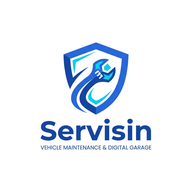
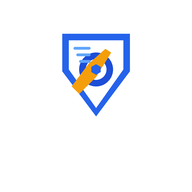
rebrand: complete rebranding to FixGarasi and configure Neon PostgreSQL integration

Changed region(s): [[0.1875, 0.1562, 0.8125, 0.7812]]

diff --git a/client/src/components/profile/LegalModal.tsx b/client/src/components/profile/LegalModal.tsx
@@ -37,7 +37,7 @@ export const LegalModal: React.FC<LegalModalProps> = ({
             </div>
             <div>
               <h3 className="text-sm font-extrabold text-slate-900">Informasi Legal & Layanan</h3>
-              <p className="text-[11px] text-slate-500">Servisin - Manajemen Kendaraan SaaS</p>
+              <p className="text-[11px] text-slate-500">FixGarasi - Manajemen Kendaraan SaaS</p>
             </div>
           </div>
           <button
@@ -72,9 +72,9 @@ export const LegalModal: React.FC<LegalModalProps> = ({
         <div className="p-5 overflow-y-auto space-y-4 text-xs text-slate-600 leading-relaxed">
           {activeTab === 'terms' && (
             <div className="space-y-3">
-              <h4 className="font-bold text-slate-900 text-sm">1. Ketentuan Penggunaan Layanan Servisin</h4>
+              <h4 className="font-bold text-slate-900 text-sm">1. Ketentuan Penggunaan Layanan FixGarasi</h4>
               <p>
-                Selamat datang di Servisin. Dengan mengakses dan menggunakan platform SaaS Servisin (aplikasi web maupun mobile), Anda menyetujui untuk terikat oleh syarat dan ketentuan berikut.
+                Selamat datang di FixGarasi. Dengan mengakses dan menggunakan platform SaaS FixGarasi (aplikasi web maupun mobile), Anda menyetujui untuk terikat oleh syarat dan ketentuan berikut.
               </p>
               <h5 className="font-bold text-slate-800">Akun & Keamanan</h5>
               <p>
@@ -82,7 +82,7 @@ export const LegalModal: React.FC<LegalModalProps> = ({
               </p>
               <h5 className="font-bold text-slate-800">Paket Layanan SaaS</h5>
               <p>
-                Servisin menyediakan tier <strong>Free</strong> (hingga 2 unit kendaraan) dan <strong>Pro</strong> (kendaraan tak terbatas, analitik mendalam, dan kapasitas penyimpanan bukti servis tak terbatas).
+                FixGarasi menyediakan tier <strong>Free</strong> (hingga 2 unit kendaraan) dan <strong>Pro</strong> (kendaraan tak terbatas, analitik mendalam, dan kapasitas penyimpanan bukti servis tak terbatas).
               </p>
               <h5 className="font-bold text-slate-800">Kepemilikan Data</h5>
               <p>
@@ -95,7 +95,7 @@ export const LegalModal: React.FC<LegalModalProps> = ({
             <div className="space-y-3">
               <h4 className="font-bold text-slate-900 text-sm">2. Kebijakan Privasi (Privacy Policy)</h4>
               <p>
-                Servisin menghormati privasi setiap pengguna. Dokumen ini menjelaskan bagaimana kami mengumpulkan, menggunakan, dan melindungi informasi pribadi Anda.
+                FixGarasi menghormati privasi setiap pengguna. Dokumen ini menjelaskan bagaimana kami mengumpulkan, menggunakan, dan melindungi informasi pribadi Anda.
               </p>
               <h5 className="font-bold text-slate-800">Data yang Kami Kumpulkan</h5>
               <ul className="list-disc pl-4 space-y-1">
@@ -114,7 +114,7 @@ export const LegalModal: React.FC<LegalModalProps> = ({
             <div className="space-y-3">
               <h4 className="font-bold text-slate-900 text-sm">3. Kebijakan Pembayaran & Pengembalian Dana (Refund)</h4>
               <p>
-                Pembayaran paket Servisin PRO diproses melalui mitra gerbang pembayaran resmi berlisensi Bank Indonesia (termasuk QRIS, Virtual Account Multi-Bank, dan E-Wallet).
+                Pembayaran paket FixGarasi PRO diproses melalui mitra gerbang pembayaran resmi berlisensi Bank Indonesia (termasuk QRIS, Virtual Account Multi-Bank, dan E-Wallet).
               </p>
               <h5 className="font-bold text-slate-800">Tarif Langganan</h5>
               <ul className="list-disc pl-4 space-y-1">
@@ -132,10 +132,10 @@ export const LegalModal: React.FC<LegalModalProps> = ({
             <div className="space-y-3">
               <h4 className="font-bold text-slate-900 text-sm">4. Kontak & Layanan Pelanggan</h4>
               <p>
-                Tim bantuan Servisin siap membantu Anda jika mengalami kendala transaksi atau pertanyaan operasional:
+                Tim bantuan FixGarasi siap membantu Anda jika mengalami kendala transaksi atau pertanyaan operasional:
               </p>
               <div className="p-3.5 bg-slate-50 rounded-2xl border border-slate-100 space-y-2 text-xs">
-                <p><strong>Email Bantuan:</strong> support@servisin.id</p>
+                <p><strong>Email Bantuan:</strong> support@fixgarasi.id</p>
                 <p><strong>WhatsApp Resmi:</strong> +62 812-3456-7890</p>
                 <p><strong>Jam Operasional:</strong> Senin – Minggu (08:00 – 21:00 WIB)</p>
                 <p><strong>Lokasi:</strong> Jakarta, Indonesia</p>

diff --git a/client/src/context/AuthContext.tsx b/client/src/context/AuthContext.tsx
@@ -17,12 +17,15 @@ const AuthContext = createContext<AuthContextType | undefined>(undefined);
 
 export const AuthProvider: React.FC<{ children: React.ReactNode }> = ({ children }) => {
   const [user, setUser] = useState<User | null>(null);
-  const [token, setToken] = useState<string | null>(localStorage.getItem('servisin_token'));
+  const [token, setToken] = useState<string | null>(
+    localStorage.getItem('fixgarasi_token') || localStorage.getItem('servisin_token')
+  );
   const [isLoading, setIsLoading] = useState<boolean>(true);
 
   const refreshUser = async () => {
     try {
-      if (!localStorage.getItem('servisin_token')) {
+      const activeToken = localStorage.getItem('fixgarasi_token') || localStorage.getItem('servisin_token');
+      if (!activeToken) {
         setUser(null);
         return;
       }
@@ -33,6 +36,7 @@ export const AuthProvider: React.FC<{ children: React.ReactNode }> = ({ children
     } catch (error) {
       console.error('Failed to fetch user data', error);
       setUser(null);
+      localStorage.removeItem('fixgarasi_token');
       localStorage.removeItem('servisin_token');
     } finally {
       setIsLoading(false);
@@ -52,7 +56,7 @@ export const AuthProvider: React.FC<{ children: React.ReactNode }> = ({ children
       const res = await api.post('/auth/login', credentials);
       if (res.data.success) {
         const { token: newToken, user: userData } = res.data.data;
-        localStorage.setItem('servisin_token', newToken);
+        localStorage.setItem('fixgarasi_token', newToken);
         setToken(newToken);
         setUser(userData);
         return { success: true, message: res.data.message };
@@ -69,7 +73,7 @@ export const AuthProvider: React.FC<{ children: React.ReactNode }> = ({ children
       const res = await api.post('/auth/register', data);
       if (res.data.success) {
         const { token: newToken, user: userData } = res.data.data;
-        localStorage.setItem('servisin_token', newToken);
+        localStorage.setItem('fixgarasi_token', newToken);
         setToken(newToken);
         setUser(userData);
         return { success: true, message: res.data.message };
@@ -82,6 +86,7 @@ export const AuthProvider: React.FC<{ children: React.ReactNode }> = ({ children
   };
 
   const logout = () => {
+    localStorage.removeItem('fixgarasi_token');
     localStorage.removeItem('servisin_token');
     setToken(null);
     setUser(null);

diff --git a/client/src/pages/ProfilePage.tsx b/client/src/pages/ProfilePage.tsx
@@ -96,7 +96,7 @@ export const ProfilePage: React.FC = () => {
                 Status Paket SaaS
               </span>
               <h4 className="text-sm font-extrabold text-slate-900 flex items-center gap-1.5">
-                Paket {user?.tier === 'PRO' ? 'Servisin PRO' : 'Servisin Gratis'}
+                Paket {user?.tier === 'PRO' ? 'FixGarasi PRO' : 'FixGarasi Gratis'}
               </h4>
             </div>
           </div>
@@ -115,7 +115,7 @@ export const ProfilePage: React.FC = () => {
         {/* Pricing tag for Midtrans review transparency */}
         <div className="p-3 bg-slate-50 rounded-2xl border border-slate-100 flex items-center justify-between text-xs">
           <div>
-            <span className="font-extrabold text-slate-900">Tarif Servisin PRO:</span>
+            <span className="font-extrabold text-slate-900">Tarif FixGarasi PRO:</span>
             <p className="text-[11px] text-slate-500">Mulai Rp 19.000 / bulan</p>
           </div>
           <span className="text-[11px] font-bold text-emerald-700 bg-emerald-50 px-2 py-0.5 rounded-md border border-emerald-200/60">
@@ -150,7 +150,7 @@ export const ProfilePage: React.FC = () => {
             className="w-full py-3.5 bg-gradient-to-r from-amber-500 to-amber-600 hover:from-amber-600 hover:to-amber-700 text-white rounded-2xl font-extrabold text-xs shadow-md shadow-amber-500/25 transition-all flex items-center justify-center gap-2 tap-bounce"
           >
             <Sparks className="w-4 h-4" />
-            <span>{user?.tier === 'PRO' ? 'Perpanjang / Kelola Paket PRO (Midtrans)' : 'Upgrade ke Servisin PRO (Midtrans)'}</span>
+            <span>{user?.tier === 'PRO' ? 'Perpanjang / Kelola Paket PRO (Midtrans)' : 'Upgrade ke FixGarasi PRO (Midtrans)'}</span>
           </button>
 
           <button

diff --git a/client/src/components/profile/UpgradeModal.tsx b/client/src/components/profile/UpgradeModal.tsx
@@ -89,7 +89,7 @@ export const UpgradeModal: React.FC<UpgradeModalProps> = ({ isOpen, onClose, onS
       });
       if (res.data.success) {
         await refreshUser();
-        alert('Selamat! Paket Servisin PRO Anda telah aktif.');
+        alert('Selamat! Paket FixGarasi PRO Anda telah aktif.');
         if (onSuccess) onSuccess();
         onClose();
       }
@@ -110,7 +110,7 @@ export const UpgradeModal: React.FC<UpgradeModalProps> = ({ isOpen, onClose, onS
               <Sparks className="w-5 h-5" />
             </div>
             <div>
-              <h3 className="text-sm font-extrabold text-slate-900">Upgrade ke Servisin PRO</h3>
+              <h3 className="text-sm font-extrabold text-slate-900">Upgrade ke FixGarasi PRO</h3>
               <p className="text-[11px] text-slate-500">Buka akses penuh seluruh fitur garasi</p>
             </div>
           </div>
@@ -166,7 +166,7 @@ export const UpgradeModal: React.FC<UpgradeModalProps> = ({ isOpen, onClose, onS
 
           {/* Features Comparison List */}
           <div className="p-4 bg-slate-50 rounded-2xl border border-slate-100 space-y-2.5">
-            <h4 className="font-extrabold text-slate-900 text-xs">Keuntungan Servisin PRO:</h4>
+            <h4 className="font-extrabold text-slate-900 text-xs">Keuntungan FixGarasi PRO:</h4>
             <div className="space-y-2 text-[11px] text-slate-600">
               <div className="flex items-center gap-2">
                 <CheckCircle className="w-4 h-4 text-emerald-600 shrink-0" />

diff --git a/client/src/pages/AuthPage.tsx b/client/src/pages/AuthPage.tsx
@@ -63,12 +63,12 @@ export const AuthPage: React.FC = () => {
           <div className="flex items-center gap-3 mb-3">
             <img
               src="/logo.webp"
-              alt="Servisin Logo"
+              alt="FixGarasi Logo"
               className="w-12 h-12 rounded-2xl object-contain bg-white/95 p-1 shadow-md border border-white/20"
             />
             <div>
               <h1 className="text-xl font-extrabold tracking-tight">
-                SERVIS<span className="text-amber-300">IN</span>
+                FIX<span className="text-amber-300">GARASI</span>
               </h1>
               <p className="text-[11px] text-brand-100 font-medium">
                 SaaS Manajemen Servis Kendaraan Pribadi
@@ -218,7 +218,7 @@ export const AuthPage: React.FC = () => {
                   <span>Memproses...</span>
                 ) : (
                   <>
-                    <span>{isLoginTab ? 'Masuk ke Servisin' : 'Buat Akun Baru'}</span>
+                    <span>{isLoginTab ? 'Masuk ke FixGarasi' : 'Buat Akun Baru'}</span>
                     <ArrowRight className="w-4 h-4" />
                   </>
                 )}

diff --git a/server/src/index.ts b/server/src/index.ts
@@ -65,7 +65,7 @@ app.use(
       if (!origin || allowedOrigins.includes(origin) || process.env.NODE_ENV !== 'production') {
         callback(null, true);
       } else {
-        callback(new Error('Origin tidak diizinkan oleh kebijakan CORS Servisin.'));
+        callback(new Error('Origin tidak diizinkan oleh kebijakan CORS FixGarasi.'));
       }
     },
     credentials: true,
@@ -88,7 +88,7 @@ app.use('/uploads', express.static(uploadsPath));
 app.get('/api/health', (req, res) => {
   res.status(200).json({
     status: 'online',
-    service: 'Servisin API',
+    service: 'FixGarasi API',
     timestamp: new Date().toISOString(),
   });
 });
@@ -113,7 +113,7 @@ app.use('/api/*', (req, res) => {
 app.use(errorHandler);
 
 app.listen(PORT, () => {
-  console.log(`🚀 Servisin Backend Server running on http://localhost:${PORT}`);
+  console.log(`FixGarasi Backend Server running on http://localhost:${PORT}`);
 });
 
 export default app;

diff --git a/server/src/controllers/paymentController.ts b/server/src/controllers/paymentController.ts
@@ -11,11 +11,11 @@ const planSchema = z.object({
 const PLAN_CONFIG = {
   MONTHLY: {
     price: 19000,
-    name: 'Servisin PRO - 1 Bulan',
+    name: 'FixGarasi PRO - 1 Bulan',
   },
   YEARLY: {
     price: 149000,
-    name: 'Servisin PRO - 1 Tahun (Hemat 35%)',
+    name: 'FixGarasi PRO - 1 Tahun (Hemat 35%)',
   },
 } as const;
 
@@ -37,7 +37,7 @@ export const createPaymentToken = async (req: AuthRequest, res: Response): Promi
     }
 
     const selectedPlan = PLAN_CONFIG[planType];
-    const orderId = `SERVISIN-${planType}-${Date.now().toString().slice(-6)}-${Math.random().toString(36).substring(2, 6).toUpperCase()}`;
+    const orderId = `FIXGARASI-${planType}-${Date.now().toString().slice(-6)}-${Math.random().toString(36).substring(2, 6).toUpperCase()}`;
 
     let snapToken = '';
     let snapRedirectUrl = '';

diff --git a/client/src/services/api.ts b/client/src/services/api.ts
@@ -22,7 +22,7 @@ const api = axios.create({
 // Add auth token to all requests
 api.interceptors.request.use(
   (config) => {
-    const token = localStorage.getItem('servisin_token');
+    const token = localStorage.getItem('fixgarasi_token') || localStorage.getItem('servisin_token');
     if (token && config.headers) {
       config.headers.Authorization = `Bearer ${token}`;
     }
@@ -39,6 +39,8 @@ api.interceptors.response.use(
       // Sesi expired
       const currentPath = window.location.pathname;
       if (currentPath !== '/login' && currentPath !== '/register') {
+        localStorage.removeItem('fixgarasi_token');
+        localStorage.removeItem('fixgarasi_user');
         localStorage.removeItem('servisin_token');
         localStorage.removeItem('servisin_user');
         window.location.href = '/login';

diff --git a/server/src/test_api.ts b/server/src/test_api.ts
@@ -2,7 +2,7 @@ import app from './index';
 import http from 'http';
 
 async function runTests() {
-  console.log('🧪 Starting Servisin End-to-End API Integration Tests...\n');
+  console.log('🧪 Starting FixGarasi End-to-End API Integration Tests...\n');
 
   const server = http.createServer(app);
   await new Promise<void>((resolve) => server.listen(0, resolve));
@@ -30,7 +30,7 @@ async function runTests() {
     assert(healthRes.status === 200 && healthData.status === 'online', '1. GET /health');
 
     // 2. Auth: Register Fresh Test User
-    const testEmail = `tester_${Date.now()}@servisin.id`;
+    const testEmail = `tester_${Date.now()}@fixgarasi.id`;
     const regRes = await fetch(`${baseUrl}/auth/register`, {
       method: 'POST',
       headers: { 'Content-Type': 'application/json' },

diff --git a/client/src/components/layout/TopHeader.tsx b/client/src/components/layout/TopHeader.tsx
@@ -38,13 +38,13 @@ export const TopHeader: React.FC = () => {
           <Link to="/" className="flex items-center gap-2.5">
             <img
               src="/logo.webp"
-              alt="Servisin Logo"
+              alt="FixGarasi Logo"
               className="w-9 h-9 rounded-xl object-contain shadow-xs border border-slate-100 bg-white"
             />
             <div>
               <div className="flex items-center gap-1.5">
                 <span className="font-extrabold text-base tracking-tight text-slate-900">
-                  SERVIS<span className="text-brand-600">IN</span>
+                  FIX<span className="text-brand-600">GARASI</span>
                 </span>
                 <span
                   className={`text-[9px] font-bold px-1.5 py-0.5 rounded-full ${

diff --git a/client/src/App.tsx b/client/src/App.tsx
@@ -19,7 +19,7 @@ const ProtectedRoute: React.FC<{ children: React.ReactNode }> = ({ children }) =
       <div className="min-h-screen bg-slate-50 flex items-center justify-center">
         <div className="flex flex-col items-center gap-3">
           <div className="w-10 h-10 border-4 border-brand-200 border-t-brand-600 rounded-full animate-spin" />
-          <span className="text-xs font-bold text-slate-500">Memuat Servisin...</span>
+          <span className="text-xs font-bold text-slate-500">Memuat FixGarasi...</span>
         </div>
       </div>
     );

diff --git a/server/src/controllers/vehicleController.ts b/server/src/controllers/vehicleController.ts
@@ -120,7 +120,7 @@ export const createVehicle = async (req: AuthRequest, res: Response): Promise<vo
         res.status(403).json({
           success: false,
           code: 'TIER_LIMIT_REACHED',
-          message: 'Batas kuota kendaraan akun Gratis telah tercapai (maksimal 2 kendaraan). Upgrade ke Servisin Pro untuk menambah kendaraan tanpa batas!',
+          message: 'Batas kuota kendaraan akun Gratis telah tercapai (maksimal 2 kendaraan). Upgrade ke FixGarasi Pro untuk menambah kendaraan tanpa batas!',
         });
         return;
       }
